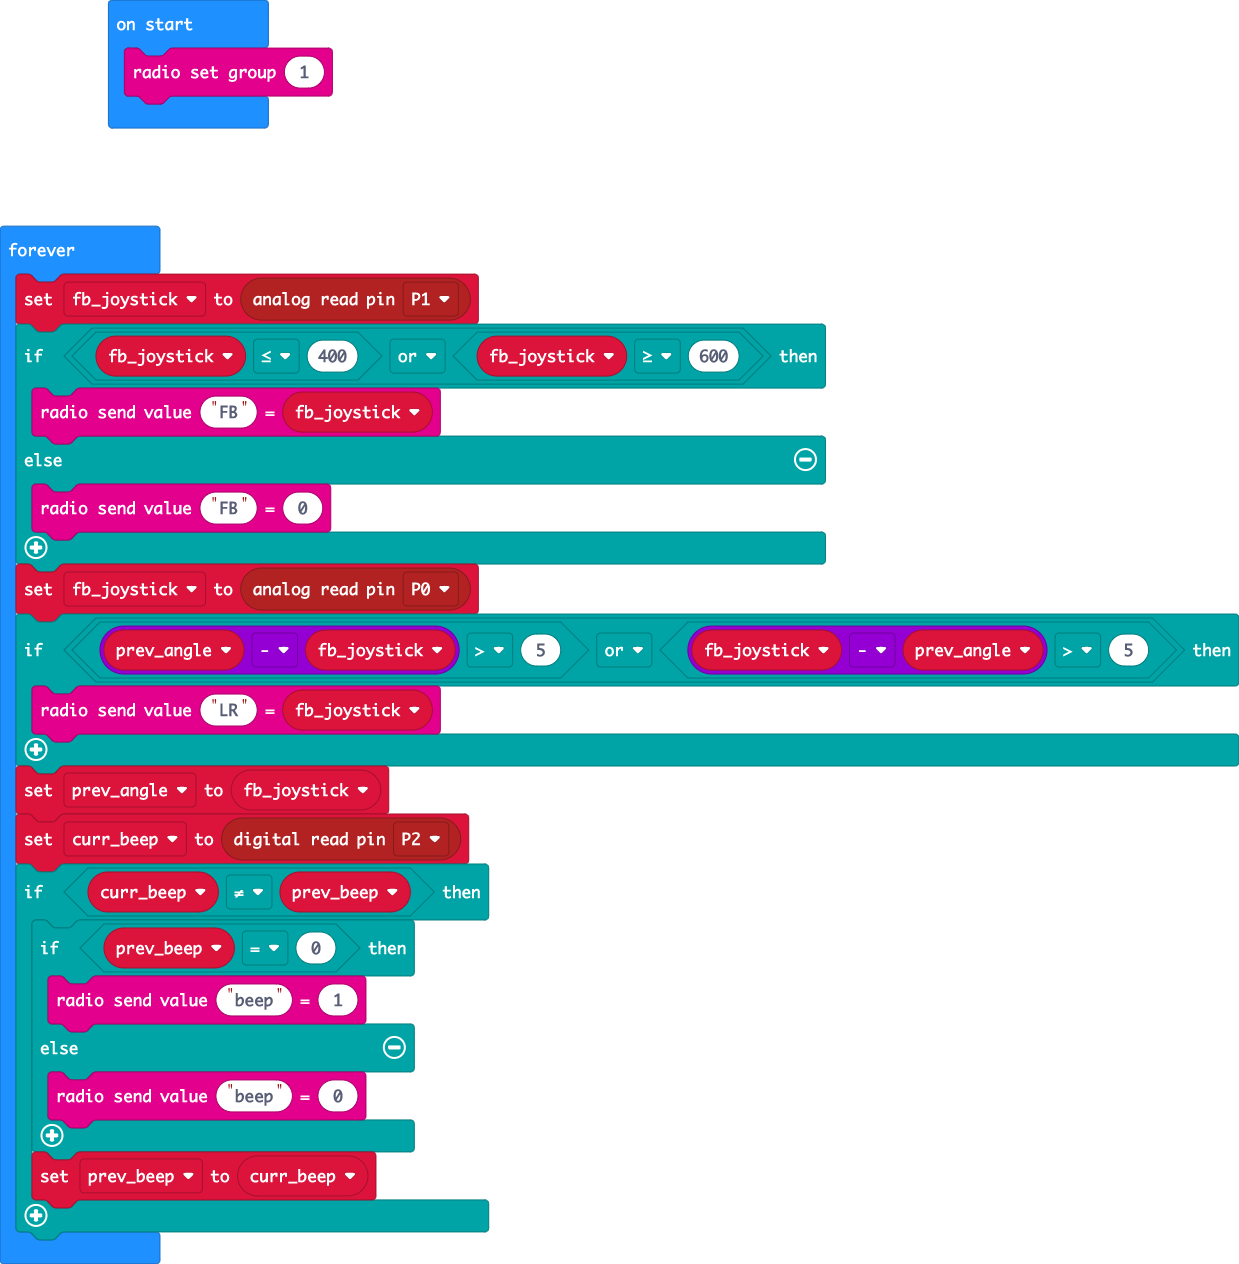
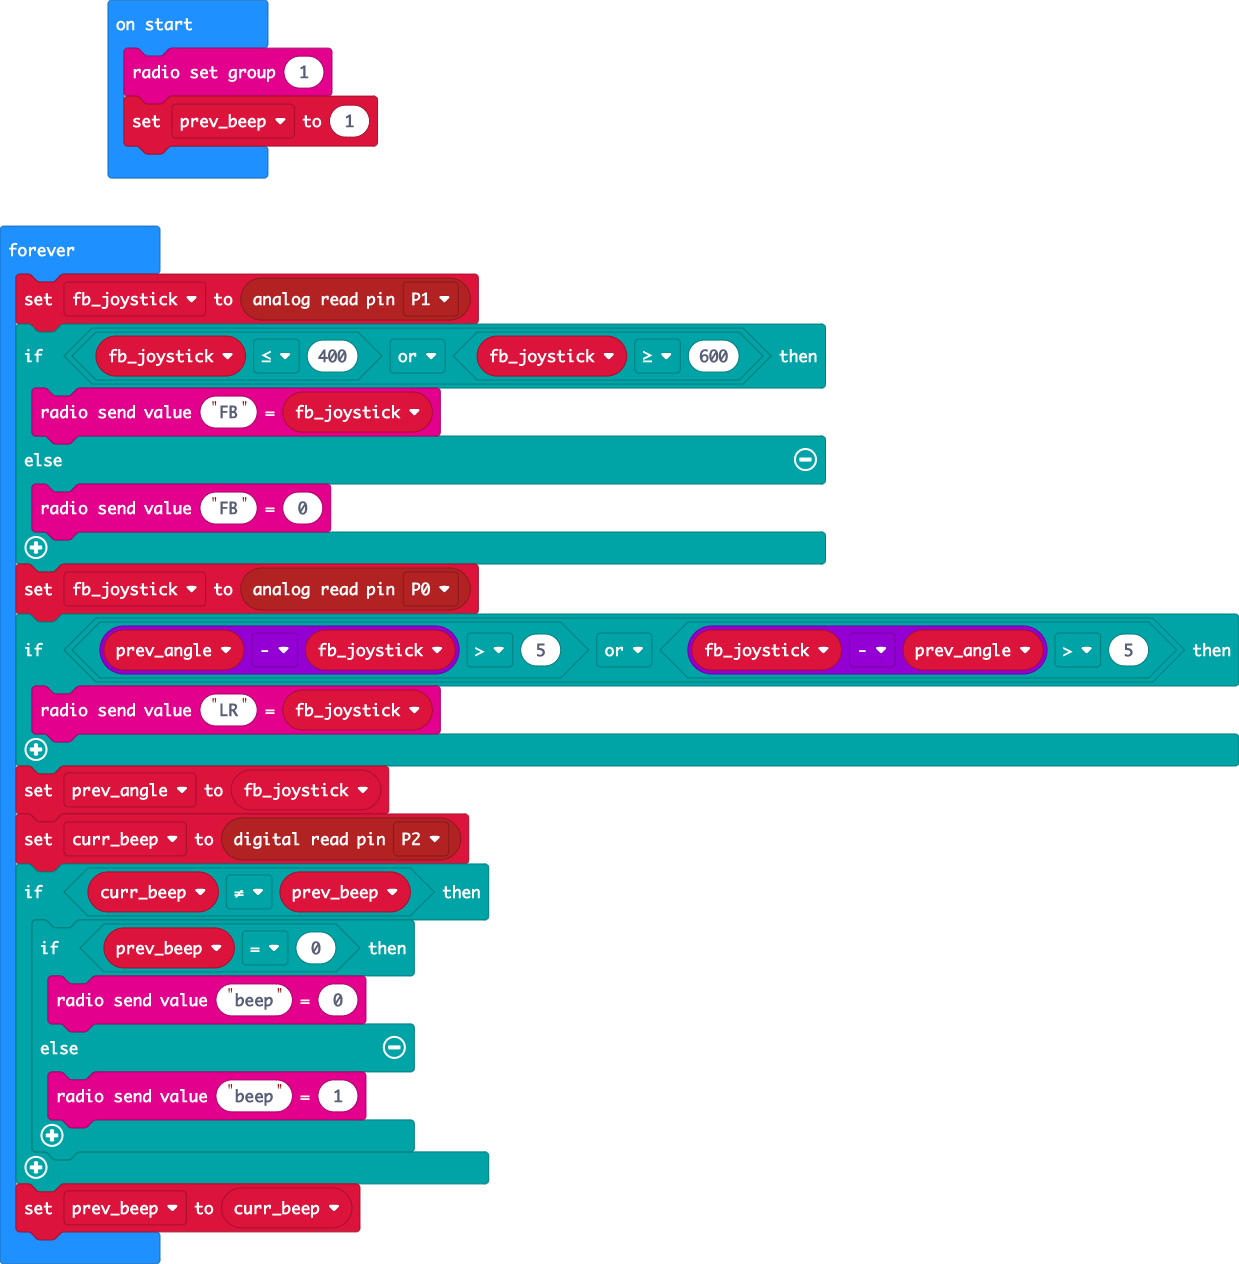
Update main.blocks, main.ts

Changed region(s): [[0.0, 0.8948, 0.3987, 0.9873], [0.0613, 0.0309, 0.3067, 0.1543], [0.1227, 0.0, 0.1533, 0.0309]]

diff --git a/main.ts b/main.ts
@@ -1,8 +1,8 @@
-let prev_beep = 0
 let curr_beep = 0
 let prev_angle = 0
 let fb_joystick = 0
 radio.setGroup(1)
+let prev_beep = 1
 basic.forever(function () {
     fb_joystick = pins.analogReadPin(AnalogPin.P1)
     if (fb_joystick <= 400 || fb_joystick >= 600) {
@@ -18,10 +18,10 @@ basic.forever(function () {
     curr_beep = pins.digitalReadPin(DigitalPin.P2)
     if (curr_beep != prev_beep) {
         if (prev_beep == 0) {
-            radio.sendValue("beep", 1)
-        } else {
             radio.sendValue("beep", 0)
+        } else {
+            radio.sendValue("beep", 1)
         }
-        prev_beep = curr_beep
     }
+    prev_beep = curr_beep
 })
